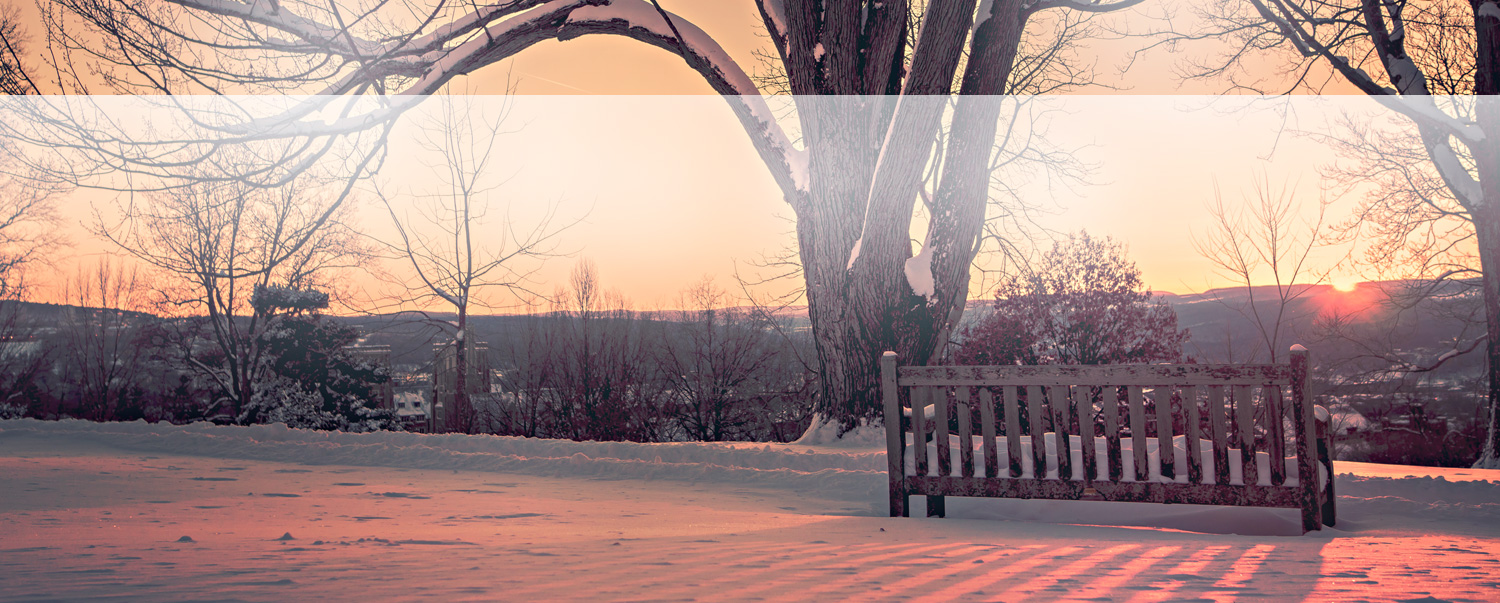
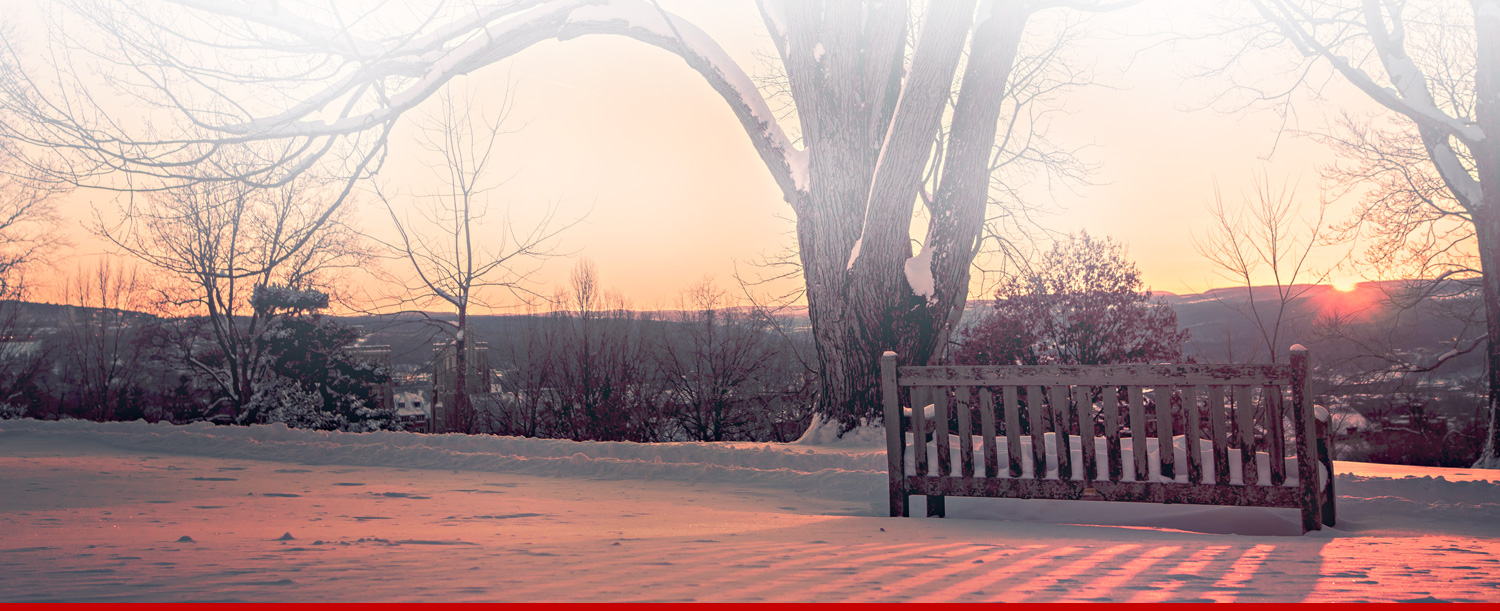
testimonial part and background image fixing

diff --git a/css/responsive.css b/css/responsive.css
@@ -3,34 +3,14 @@
 		width:97%;
 		margin:0 auto;	
 	}
-	.content-wrapper{
-		top:470px;	
-	}
-	
 }
 
-@media only screen and (max-width : 751px) {
-	.content-wrapper{
-		top:350px;	
-	}
-	
+@media only screen and (max-width : 751px) {	
 	.snIcons{
 		float:none;
 		display:block;
 		text-align:center;	
-	}
-	
-	.splash-container{
-		background:url(../images/mainImgBg_751.jpg) 0 0 no-repeat;
-		height:579px;	
-	}
-	.home-menu.pure-menu-open{
-		background:url(../images/headerTransBg_768.png) 0 0 no-repeat;	
-	}
-	.containerpan{
-		margin:-43% auto 49px;	
-	}
-	
+	}	
 	
 	.videoPan{
 		margin:0;	
@@ -56,52 +36,27 @@
 	.quoteDiv{
 		padding-right:0;	
 	}
+	
 }
 
 @media only screen and (max-width : 480px) {
-	.myform{
-		width:97%;	
+	.testimonialDiv h2{
+		text-align:center;
+		font-size:22px;
+		font-weight:600;
 	}
-	
-	.splash-container{
-		background:url(../images/mainImgBg_480.jpg) 0 0 no-repeat;
-		height:426px;	
-	}
-	.content-wrapper{
-		top:426px;	
-	}
-	.home-menu.pure-menu-open{
-		background:url(../images/headerTransBg_480.png) 0 0 no-repeat;	
-	}
-	
-	.containerpan{
-		margin:-64% auto 49px;	
-	}
-	
-	
+		.testimonialDiv p{
+			text-align:center;	
+		}
+			.quoteDiv p{
+				text-align:left;	
+			}
 }
 
 @media only screen and (max-width : 320px) {
-	.myform{
-		width:97%;	
-	}
-	
-	.splash-container{
-		background:url(../images/mainImgBg_480.jpg) 0 0 no-repeat;
-		height:426px;	
-	}
-	.content-wrapper{
-		top:426px;	
-	}
-	
 	.thumbImgDiv{
 		float:none;
 		display:block;
 		text-align:center;	
-	}
-	
-	.containerpan{
-		margin:-85% auto 49px;	
-	}
-		
+	}	
 }

diff --git a/css/style.css b/css/style.css
@@ -13,6 +13,7 @@ body{
     color: #363636;
 	font-family: 'Open Sans', sans-serif;
     font-size: 17px;
+	
 }
 img{
 	max-width:100%;	
@@ -50,6 +51,7 @@ img{
 
 .mainwrapper{
 	overflow:hidden;	
+	background: url(../images/mainImgBg.jpg) 36% 0 no-repeat;
 }
 
 /*start HEADER
@@ -145,8 +147,11 @@ img{
 /*start MAIN CONTAINER
 ********************************/
 .content-wrapper{
-	top:603px;
-	border-top:#c60000 solid 8px;
+	/*top:603px;
+	border-top:#c60000 solid 8px;*/
+	position:static;
+	top:0;
+	background:none;
 	
 }
 .ParaMarginBot{
@@ -160,7 +165,7 @@ hr{
 
 .containerpan{
 	max-width:840px;
-	margin:-50% auto 49px;
+	margin:0 auto 49px;
 	}
 	
 .videoPan{
@@ -180,6 +185,7 @@ hr{
 }
 
 h1{
+	font-family: 'Open Sans', sans-serif;
 	font-size:40px;
 	font-weight:800;
 	color:#000;
@@ -189,6 +195,7 @@ h1{
 	margin-top:36px;
 }
 h2{
+	font-family: 'Open Sans', sans-serif;
 	font-size:28px;
 	font-weight:600;
 	color:#fff;
@@ -216,7 +223,7 @@ h2{
 
 .testimonialDiv{
 	background:#414141;
-	padding:10px 10px 10px 34px;	
+	padding:10px;	
 }
 	.testimonialDiv p{
 		font-size:13px;

diff --git a/Template15.html b/Template15.html
@@ -35,7 +35,7 @@
 	<!--start HEADER-->
     <div class="header">
     	
-        <div class="home-menu pure-menu pure-menu-open pure-menu-horizontal pure-menu-fixed">
+        <div class="home-menu">
             <div class="wrapperInner">
             	<div class="pure-g">
                     <div class="pure-u-1 pure-u-md-2-3">
@@ -64,7 +64,7 @@
     <!--end HEADER-->
     
     <!--start BANNER-->
-    <div class="splash-container"></div>
+    <!--<div class="splash-container"></div>-->
     <!--end BANNER-->
     
     <!--start MAIN CONTAINER-->
